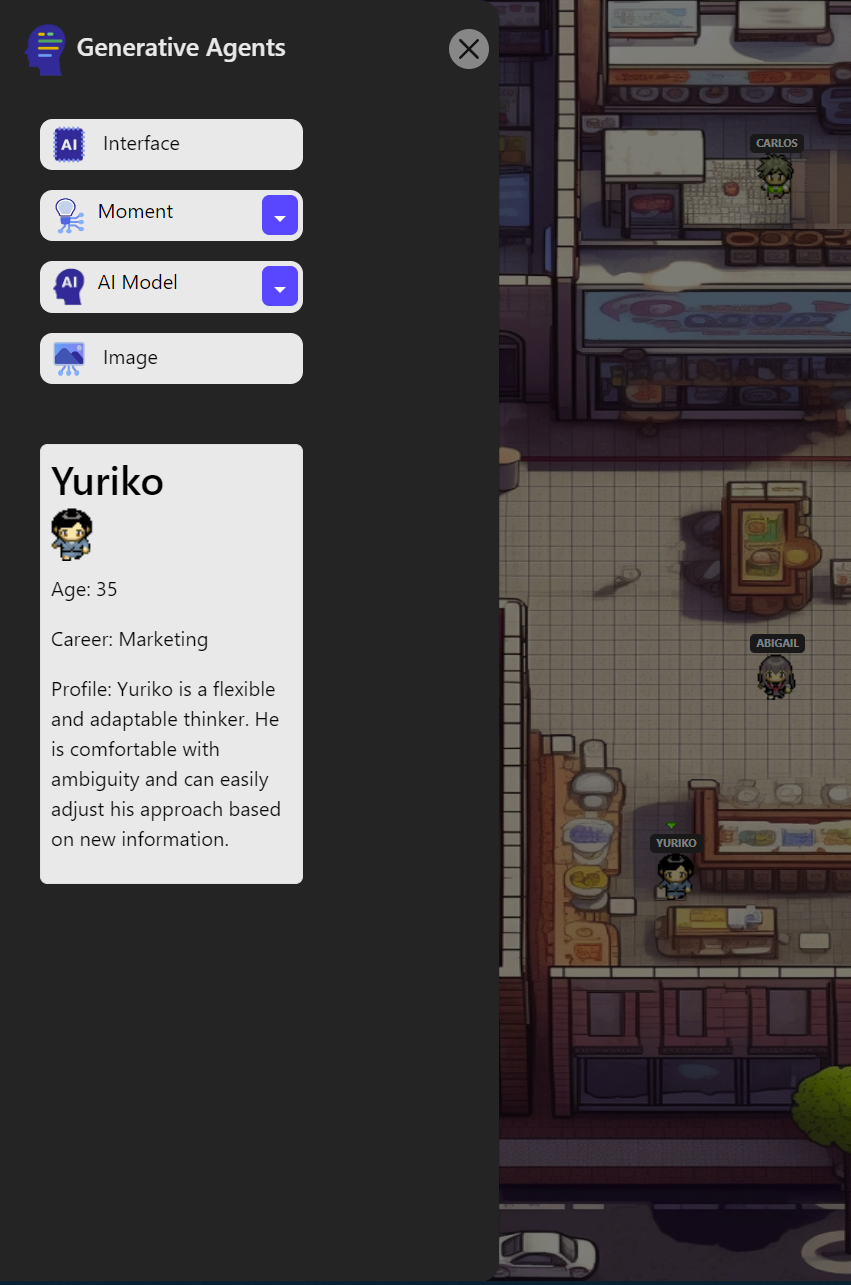
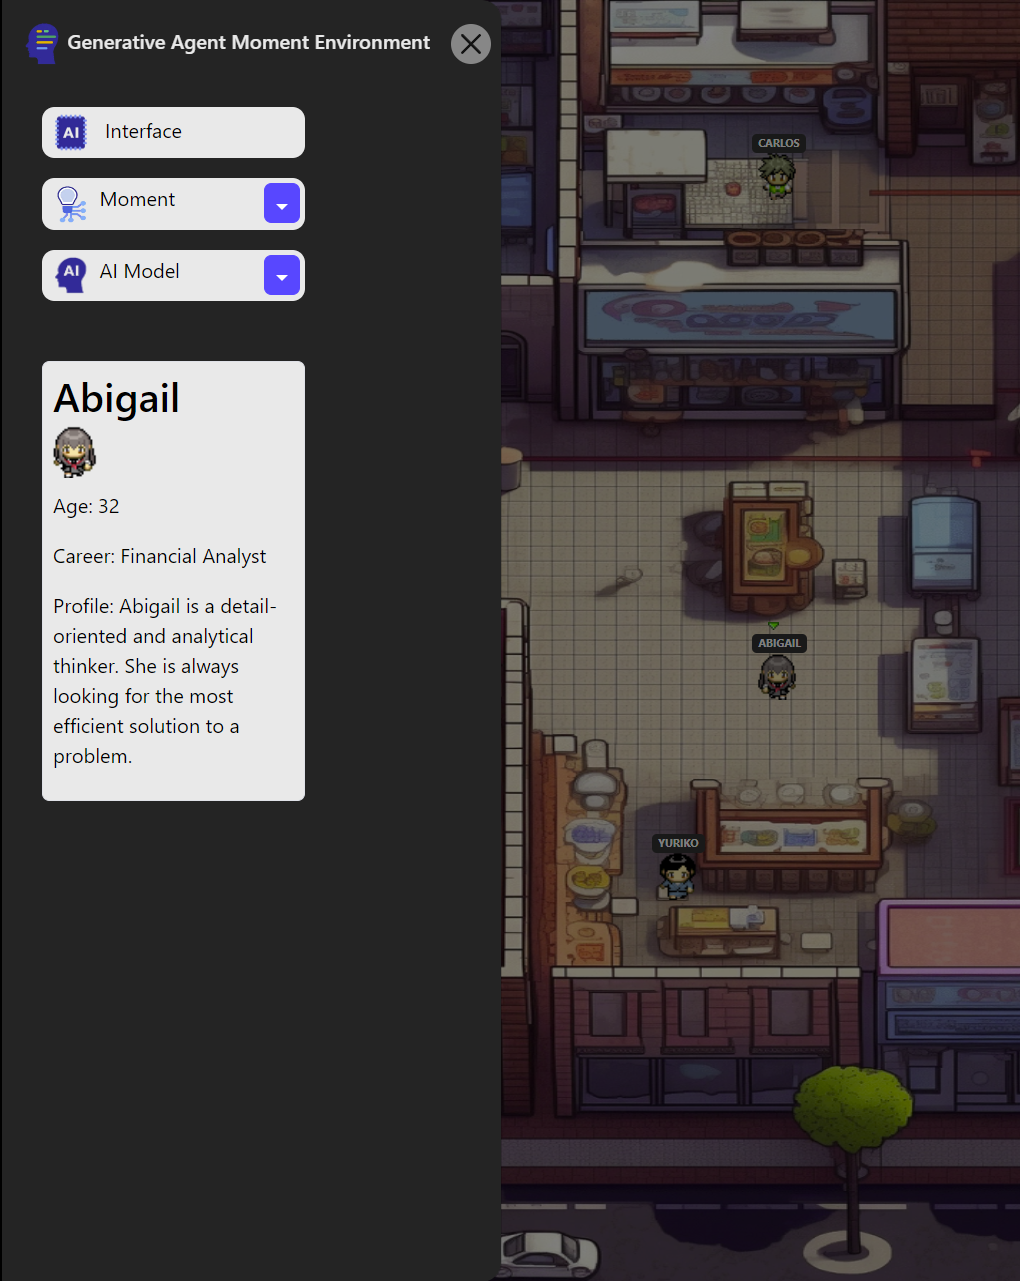
updated images for readme

diff --git a/src/components/sidebar/Sidebar.jsx b/src/components/sidebar/Sidebar.jsx
@@ -84,13 +84,13 @@ function Sidebar({ showInterface, setShowInterface }) {
               { title: "Zephyr" },
             ]}
           />
-          <ButtonSelection
+          {/* <ButtonSelection
             buttonText="Image"
             image={image}
             altText="open image view"
             // useStateParam={}
             // handleStateEvent={}
-          />
+          /> */}
           <AgentProfile agents={agents} />
         </Offcanvas.Body>
       </Offcanvas>
